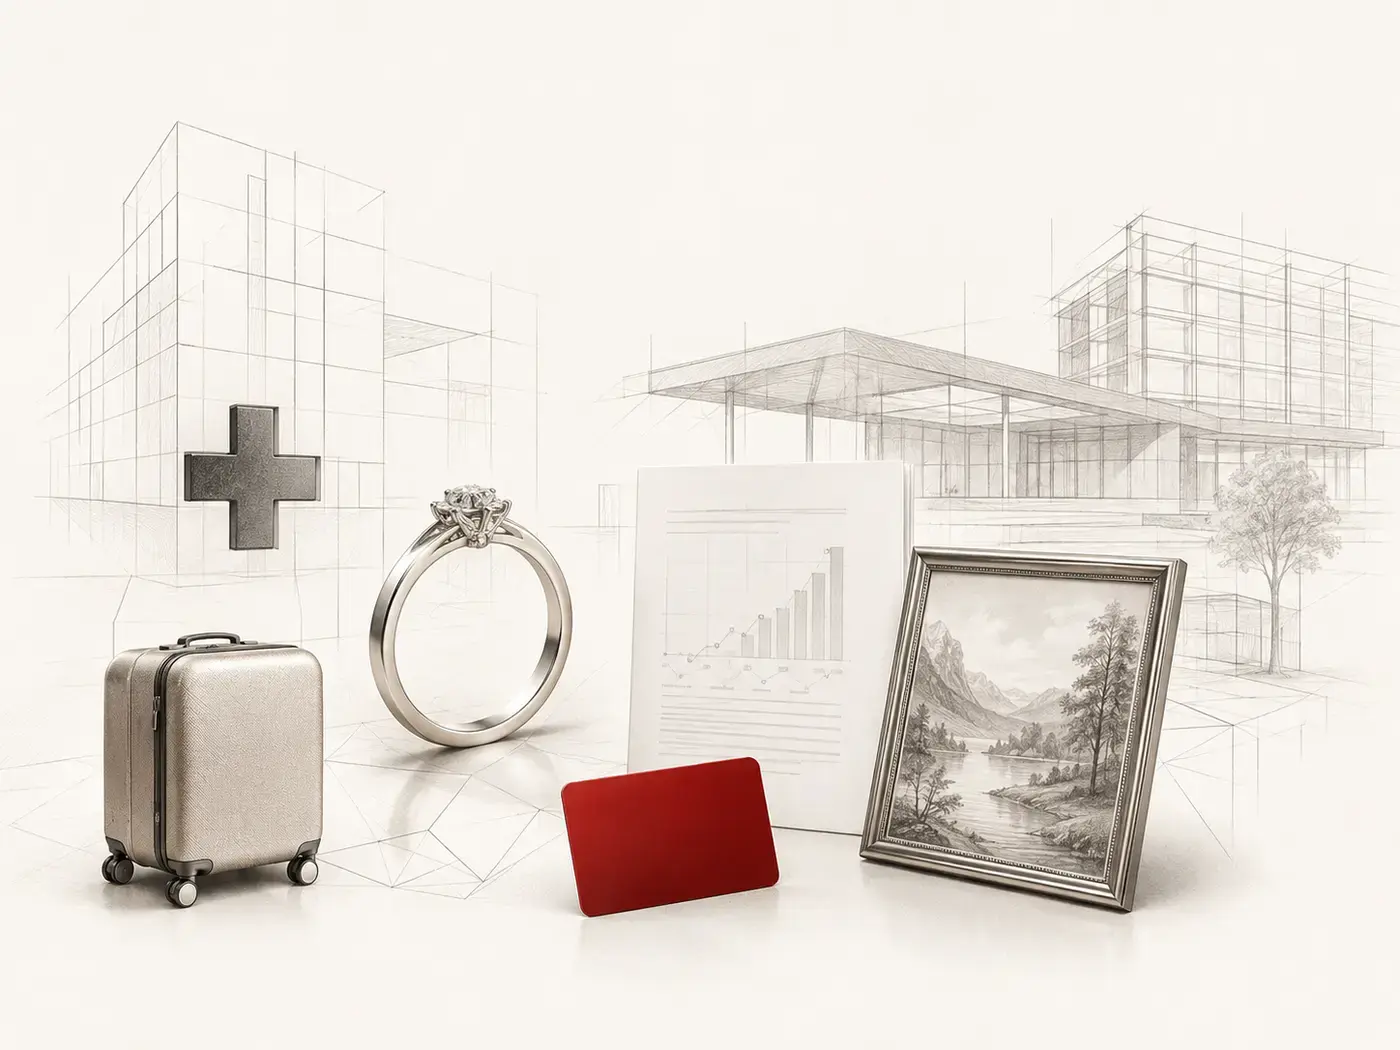
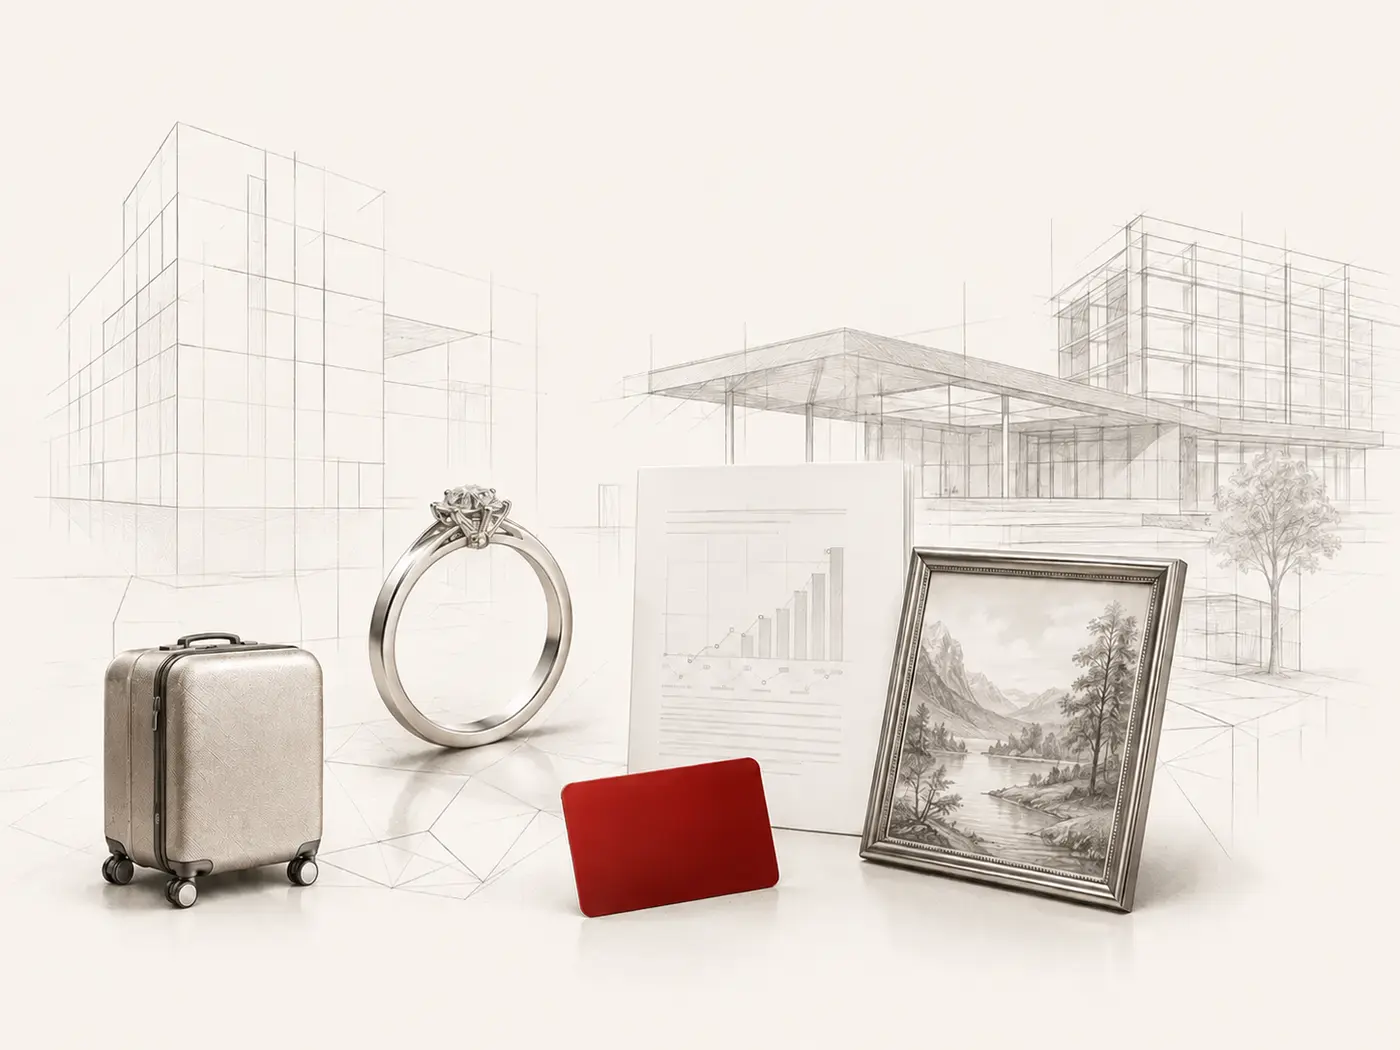
Integrate concierge styling with RWA brand

diff --git a/css/contact-concierge.css b/css/contact-concierge.css
@@ -4,3 +4,20 @@
 .conversation-section,.examples-section,.direct-contact{padding-top:92px}.section-heading{display:flex;align-items:end;justify-content:space-between;gap:36px;margin-bottom:24px}.section-heading>div{max-width:620px}.section-heading h2,.direct-contact h2{margin:11px 0 0;color:var(--cc-navy);font-size:clamp(34px,4vw,52px);line-height:1.02;letter-spacing:-.05em}.section-heading>p{max-width:480px;margin:0;color:var(--cc-muted);font-size:14px;line-height:1.65}.conversation-grid{display:grid;grid-template-columns:minmax(0,1.35fr) minmax(300px,.65fr);gap:16px}.ai-conversation-card>header small{display:block;margin-top:3px;color:var(--cc-muted);font-size:10px;font-weight:600}.chat-messages{height:335px;overflow:auto;padding:23px;background:linear-gradient(180deg,#f8fcff,#f4f9fd)}.chat-message{width:max-content;max-width:82%;margin-bottom:13px;padding:13px 15px;border-radius:17px;font-size:13px;line-height:1.55}.chat-message.assistant{border:1px solid var(--cc-line);border-bottom-left-radius:5px;background:#fff}.chat-message.user{margin-left:auto;border-bottom-right-radius:5px;background:var(--cc-navy);color:#fff}.chat-suggestions{display:flex;flex-wrap:wrap;gap:7px;padding:13px 18px;border-top:1px solid var(--cc-line);background:#fff}.chat-suggestions button{padding:7px 10px;border:1px solid var(--cc-line);border-radius:999px;background:#fff;color:var(--cc-navy);font:700 10px Inter;cursor:pointer}.chat-form{display:flex;gap:8px;padding:15px 18px;border-top:1px solid var(--cc-line);background:#fff}.chat-form input{flex:1;min-width:0;padding:0 14px;border:1px solid var(--cc-line);border-radius:13px;font:12px Inter;outline:0}.chat-form input:focus{border-color:var(--cc-blue)}.chat-form button{min-height:43px;padding:0 17px;border:0;border-radius:13px;background:var(--cc-blue);color:#fff;font:800 12px Inter;cursor:pointer}.conversation-guide{padding:26px;border:1px solid var(--cc-line);border-radius:24px;background:rgba(255,255,255,.8);box-shadow:0 12px 32px rgba(18,52,91,.05)}.conversation-guide ol{display:grid;gap:0;margin:16px 0 0;padding:0;list-style:none}.conversation-guide li{display:grid;grid-template-columns:44px 1fr;gap:12px;padding:18px 0;border-top:1px solid var(--cc-line)}.conversation-guide li>span{color:var(--cc-cyan);font-size:11px;font-weight:800}.conversation-guide strong{color:var(--cc-navy);font-size:14px}.conversation-guide p{margin:7px 0 0;color:var(--cc-muted);font-size:12px;line-height:1.55}
 .section-heading.compact h2{font-size:clamp(32px,3.4vw,45px)}.token-example-grid{display:grid;grid-template-columns:repeat(3,1fr);gap:14px}.token-example-card{padding:19px;border:1px solid var(--cc-line);border-radius:19px;background:rgba(255,255,255,.9);box-shadow:0 10px 30px rgba(18,52,91,.05)}.token-head{display:flex;align-items:center;gap:12px}.token-head img{width:54px;height:54px;object-fit:cover;border:1px solid var(--cc-line);border-radius:15px;background:#f4f8fb}.token-head strong{display:block;color:var(--cc-navy);font-size:15px}.token-head span{display:block;margin-top:5px;color:var(--cc-cyan);font-size:10px;font-weight:750;text-transform:uppercase;letter-spacing:.08em}.token-example-card>p{min-height:66px;margin:17px 0;color:var(--cc-muted);font-size:12px;line-height:1.55}.token-example-card button{width:100%;min-height:40px;border:1px solid var(--cc-line);border-radius:12px;background:#f8fcff;color:var(--cc-navy);font:750 11px Inter;cursor:pointer}.token-example-card button span{margin-left:8px}.direct-contact{display:grid;grid-template-columns:.74fr 1.26fr;gap:56px;align-items:start;padding-bottom:90px}.direct-contact>div>p:last-child{max-width:420px;color:var(--cc-muted);font-size:14px;line-height:1.65}.contact-route-grid{display:grid;border-top:1px solid var(--cc-line)}.contact-route-grid a{display:grid;grid-template-columns:40px 1fr 24px;gap:12px;align-items:center;padding:19px 4px;border-bottom:1px solid var(--cc-line);color:inherit;text-decoration:none}.contact-route-grid a>span{color:var(--cc-cyan);font-size:10px;font-weight:800}.contact-route-grid strong{color:var(--cc-navy);font-size:14px}.contact-route-grid p{margin:5px 0 0;color:var(--cc-muted);font-size:11px}.contact-route-grid b{color:var(--cc-blue);font-size:17px}.contact-footer-v2{display:flex;align-items:center;justify-content:space-between;gap:20px;padding-block:27px;border-top:1px solid var(--cc-line);font-size:11px}.contact-footer-v2>a{display:flex;align-items:center;gap:9px;color:var(--cc-navy);text-decoration:none}.contact-footer-v2 img{width:27px;height:27px}.contact-footer-v2>div{display:flex;gap:18px}.contact-footer-v2>div a{color:var(--cc-muted);text-decoration:none}.sr-only{position:absolute;width:1px;height:1px;padding:0;margin:-1px;overflow:hidden;clip:rect(0,0,0,0);white-space:nowrap;border:0}
 @media(max-width:900px){.concierge-hero,.conversation-grid,.direct-contact{grid-template-columns:1fr}.concierge-hero-copy{min-height:unset}.section-heading{align-items:start;flex-direction:column}.token-example-grid{grid-template-columns:1fr}.token-example-card>p{min-height:0}.direct-contact{gap:28px}.concierge-page .global-header{position:relative}}@media(max-width:600px){.concierge-shell{width:min(100% - 24px,1180px)}.concierge-main{padding-top:12px}.concierge-hero{padding:19px;border-radius:21px}.concierge-hero-copy{padding:9px 2px}.concierge-hero h1{font-size:39px}.concierge-lead{font-size:15px}.concierge-panel{border-radius:19px}.conversation-section,.examples-section,.direct-contact{padding-top:64px}.chat-messages{height:390px;padding:15px}.chat-message{max-width:92%;font-size:12px}.chat-suggestions{overflow:auto;flex-wrap:nowrap}.chat-suggestions button{white-space:nowrap}.contact-footer-v2{align-items:flex-start;flex-direction:column}.contact-footer-v2>div{width:100%;justify-content:space-between}}
+
+/* RWA.LTD brand integration: warm neutrals and restrained red, with cool color reserved for AI indicators. */
+.concierge-page{--cc-navy:#151515;--cc-blue:#d5202d;--cc-cyan:#d5202d;--cc-text:#202020;--cc-muted:#676767;--cc-line:#dededb;--cc-shadow:0 18px 50px rgba(20,20,20,.07);background:radial-gradient(circle at 8% 10%,rgba(213,32,45,.045),transparent 27%),linear-gradient(180deg,#fff 0,#fafaf8 45%,#f5f4f1 100%)}
+.concierge-hero{background:linear-gradient(135deg,rgba(255,255,255,.98),rgba(250,250,248,.94))}
+.concierge-badge{border-color:rgba(213,32,45,.2);background:rgba(213,32,45,.045)}
+.concierge-btn-primary,.builder-action,.chat-form button{background:#d5202d;box-shadow:0 12px 24px rgba(213,32,45,.16)}
+.concierge-panel,.ai-conversation-card,.conversation-guide,.token-example-card{box-shadow:0 16px 40px rgba(20,20,20,.055)}
+.concierge-panel-top,.ai-conversation-card>header{border-bottom-color:#ececea;background:linear-gradient(180deg,#fff,#fafaf8)}
+.concierge-ai-icon{background:linear-gradient(135deg,#1c1c1c,#d5202d);box-shadow:0 8px 20px rgba(213,32,45,.14)}
+.builder-body,.chat-messages{background:linear-gradient(180deg,#fff,#fafaf8)}
+.chat-message.user{background:#1a1a1a}
+.chat-suggestions button,.token-example-card button{background:#fafaf8}
+.builder-body select:focus{border-color:rgba(213,32,45,.55);box-shadow:0 0 0 4px rgba(213,32,45,.08)}
+.token-head img{background:#f5f4f1}
+.concierge-status{color:#27705e}.concierge-status:before{background:#2a9d82}
+.builder-status-box strong{color:#27705e}
+.conversation-guide li>span{color:#d5202d}.contact-route-grid a>span,.contact-route-grid b{color:#d5202d}
